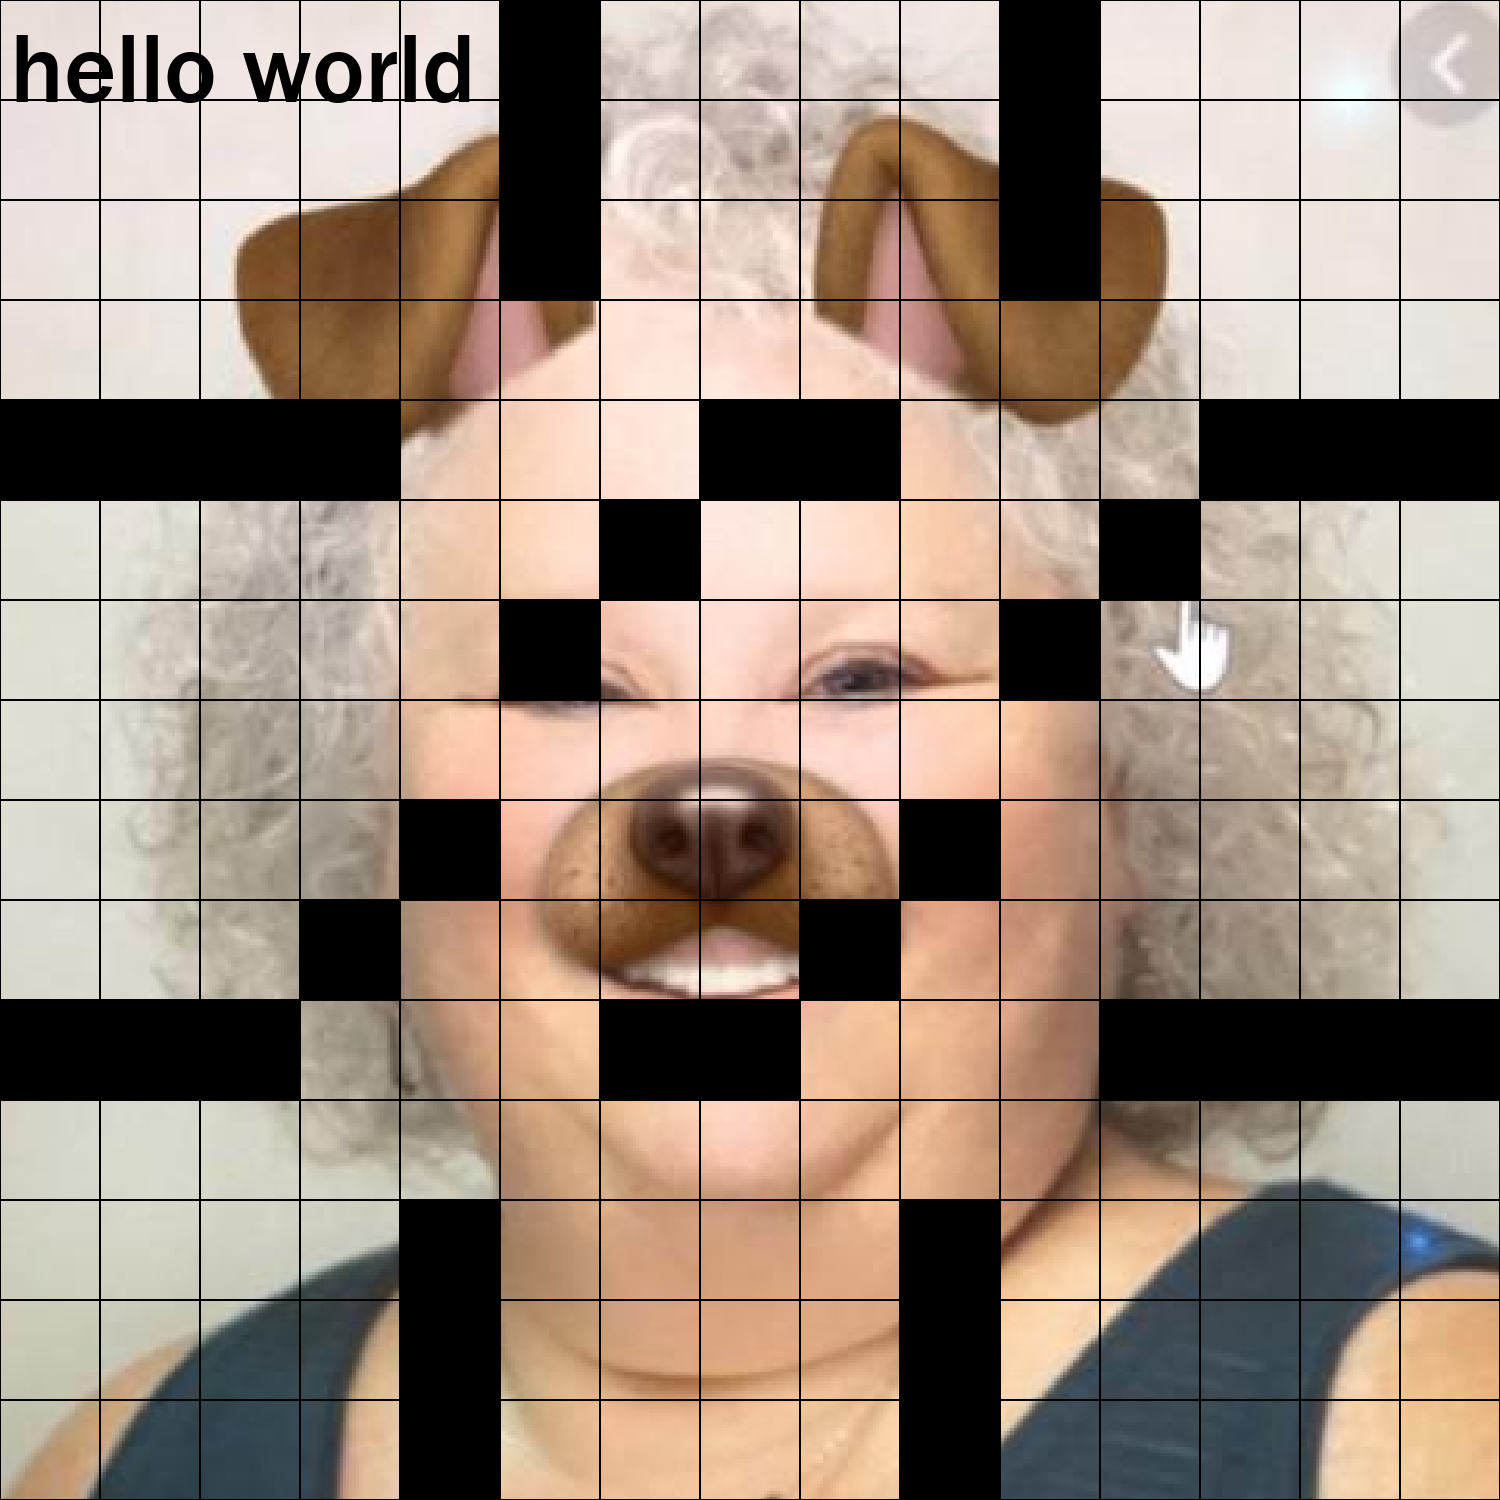
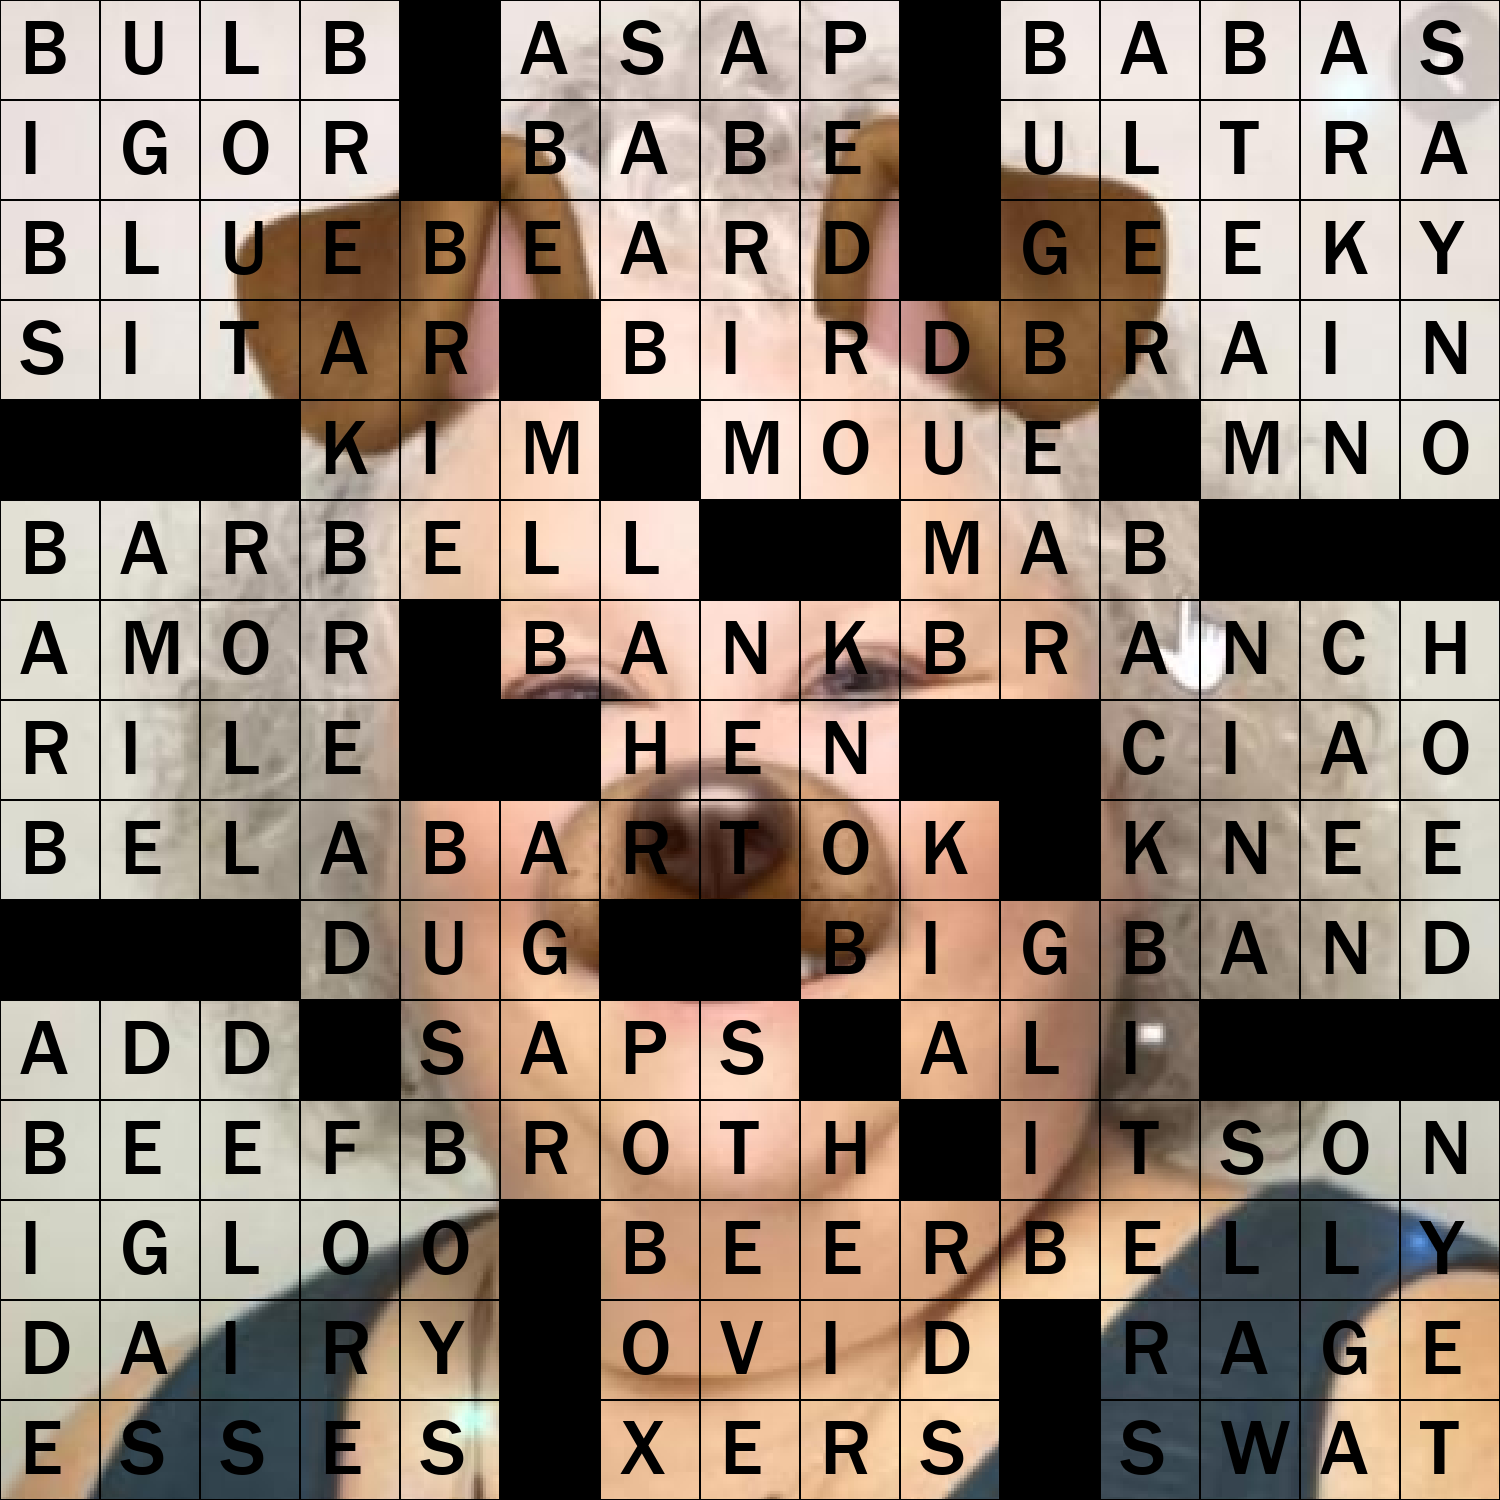
Displaying crossword with all letters filled in

diff --git a/crossword.py b/crossword.py
@@ -2,11 +2,9 @@ import discord
 from discord.ext.commands import bot
 from discord.ext import commands
 import asyncio
-import urllib.request
 import json
 import requests
 import random
-import sys
 from PIL import Image, ImageFont, ImageDraw
 
 print("Finished imports")
@@ -20,12 +18,12 @@ background_image = background_image.resize((1500, 1500))
 # transparent square = empty cell
 blank_cell = Image.open('trans_square.png')
 blank_cell = blank_cell.convert("RGBA")
-print(blank_cell.size)
+# print(blank_cell.size)
 
 # black square = cell with no letters
 black_cell = Image.open('black_square.png')
 black_cell = black_cell.convert("RGBA")
-print(black_cell.size)
+# print(black_cell.size)
 
 width, height = blank_cell.size
 
@@ -84,7 +82,7 @@ class Crossword(commands.Cog):
         '''makes an image of the current crossword state and sends it in a discord embed'''
 
         # load current state of crossword
-        with open("currentGrid.json") as f:
+        with open("xwordData.json") as f:
             xwordData = json.load(f)
 
         # Image of the entire crossword will be a 15x15 grid of squares
@@ -102,7 +100,7 @@ class Crossword(commands.Cog):
             column += 1
 
             if char == '.':
-                # black cell, move x offset to the right
+                # black cell, move x offset to the right for next cell
                 crossword_image.paste(black_cell, (x_offset, y_offset))
                 x_offset += width
             elif char == '*':
@@ -110,18 +108,18 @@ class Crossword(commands.Cog):
                 crossword_image.paste(blank_cell, (x_offset, y_offset))
                 x_offset += width
             else:
-                # cell with letter, will add letter with imagefont and imagedraw
+                # cell contains letter, add letter to cell with imagefont and imagedraw
                 crossword_image.paste(blank_cell, (x_offset, y_offset))
+                # display text on image
+                draw = ImageDraw.Draw(crossword_image)
+                # font file, font size
+                font = ImageFont.truetype("FRAMD.TTF", 80)
+                # (x, y), "Text content", rgb, font
+                draw.text((x_offset, y_offset), " " + char, (0,0,0), font=font)
                 x_offset += width
 
         # overlays the image with all the cells on top of the background image
         background_image.paste(crossword_image, (0, 0), crossword_image)
-        # display text on image
-        draw = ImageDraw.Draw(background_image)
-        # font file, font size
-        font = ImageFont.truetype("FRAMD.TTF", 100)
-        # (x, y), "Text content", rgb, font
-        draw.text((10, 10), "hello world", (0,0,0), font=font)
         background_image.save('crossword_image.png', 'PNG')
 
         file = discord.File("crossword_image.png")
